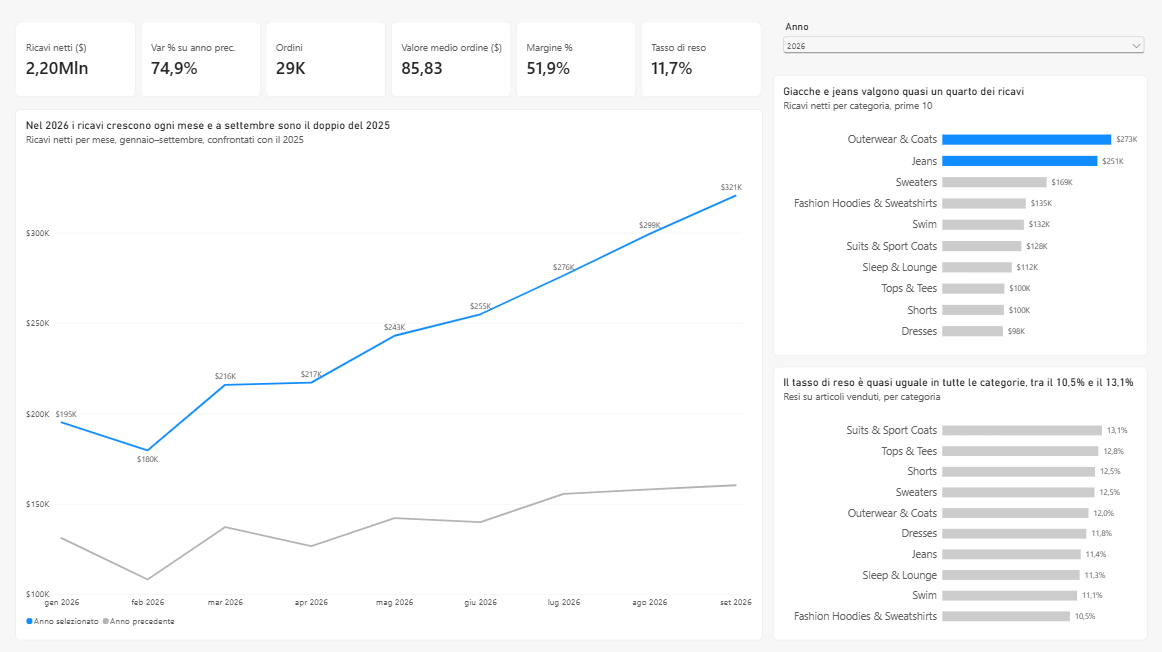
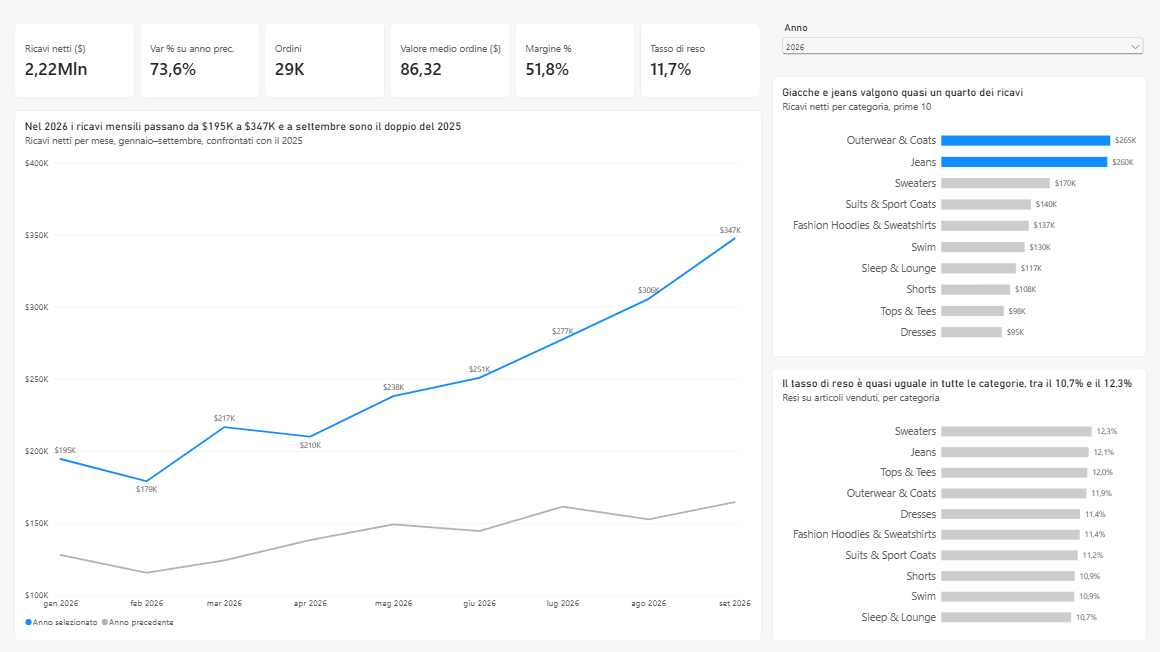
fixed data

diff --git a/docs/guida_al_modello.md b/docs/guida_al_modello.md
@@ -5,9 +5,12 @@ Per chi entra nel progetto: come sono organizzati i dati, come si ricostruisce t
 ## 1. Il percorso dei dati
 
 ```
-bigquery-public-data.thelook_ecommerce     dati grezzi, pubblici, sintetici
+bigquery-public-data.thelook_ecommerce     dati pubblici, sintetici, rigenerati nel tempo
         │
-        ▼  sql/01_staging.sql
+        ▼  sql/00_fotografia_dati.sql (una volta sola)
+raw.*                                       copia fissa: i numeri restano riproducibili
+        │
+        ▼  sql/01_staging.sql  oppure  dbt (cartella dbt/)
 staging.stg_*                               pulizia, nomi coerenti, data di taglio
         │
         ▼  sql/02_marts.sql
@@ -21,12 +24,12 @@ Ogni livello legge solo da quello precedente. Power BI e i notebook leggono solo
 
 ## 2. Ricostruire tutto da zero
 
-1. In un progetto Google Cloud con BigQuery attivo (basta la sandbox gratuita), esegui `sql/01_staging.sql` e poi `sql/02_marts.sql`. Ogni file va eseguito intero, con Ctrl+Invio.
+1. In un progetto Google Cloud con BigQuery attivo (basta la sandbox gratuita), esegui una volta `sql/00_fotografia_dati.sql`, poi `sql/01_staging.sql` e `sql/02_marts.sql`. Ogni file va eseguito intero, con Ctrl+Invio. In alternativa agli ultimi due, esegui il progetto dbt con `notebooks/02_dbt_metricflow.ipynb`, che scrive in `dbt_staging` e `dbt_marts`.
 2. Controlla i risultati in fondo a `02_marts.sql`: le righe per tabella e i ricavi netti, che devono coincidere calcolati in due modi.
 3. Apri `powerbi/analisi.pbix` e aggiorna i dati. Se colleghi un modello nuovo, segui `powerbi/modello_e_misure.md`.
 4. Esegui i notebook in Google Colab con lo stesso account Google.
 
-In sandbox le viste scadono dopo 60 giorni: se spariscono, basta rieseguire i due script.
+In sandbox tabelle e viste scadono dopo 60 giorni. Le viste si ricreano rieseguendo gli script; la fotografia invece, se rifatta, contiene dati diversi, perché il dataset pubblico nel frattempo è stato rigenerato. Confronta la sua "carta d'identità" (righe e totale di controllo in fondo allo script) con quella riportata nel README.
 
 ## 3. Le tabelle
 

diff --git a/README.md b/README.md
@@ -38,6 +38,7 @@ La sintesi per il management, con tre raccomandazioni, è in [`docs/memo.md`](do
 - **Fonte principale:** `bigquery-public-data.thelook_ecommerce`, dataset pubblico di Google su BigQuery: utenti, ordini, righe d'ordine, prodotti, magazzino ed eventi web, da febbraio 2019.
 - **A/B test:** [E-Commerce Clickstream Simulation Dataset](https://www.kaggle.com/datasets/amith1707/e-commerce-clickstream-simulation-dataset) su Kaggle, licenza CC0.
 - **Dati sintetici:** i risultati mostrano il metodo, non il comportamento di un'azienda reale.
+- **Fotografia dei dati.** Il dataset pubblico viene rigenerato: tra il 7 e l'8 novembre 2026 i ricavi netti di gennaio–settembre 2026 sono passati da $2,20 a $2,22 milioni, con la data di taglio invariata. La differenza è emersa confrontando Power BI e MetricFlow. Per questo il progetto lavora su una copia fissa (`sql/00_fotografia_dati.sql`, dataset `raw`), e i numeri di questo README si riferiscono a quella copia.
 - **Data di taglio: 30 settembre 2026.** Il controllo settimanale dei ricavi ha trovato dati recenti gonfiati dal generatore: la settimana dal 26 ottobre +29% rispetto alla precedente, la prima di novembre più del doppio di una settimana normale in soli 6 giorni. Ottobre quindi non è un mese affidabile.
 - **Cosa il generatore decide da solo**, verificato in fase di esplorazione:
   - il canale di ogni sessione è indipendente da quello di iscrizione;
@@ -72,7 +73,7 @@ Le stesse definizioni sono in `sql/02_marts.sql` e nelle misure DAX (`powerbi/mi
 ## Struttura
 
 ```
-sql/          esplorazione, staging e mart come script BigQuery
+sql/          esplorazione, fotografia dei dati, staging e mart come script BigQuery
 dbt/          gli stessi staging e mart come progetto dbt: test, controllo anomalie, semantic layer MetricFlow
 powerbi/      report Power BI, misure DAX, guida al modello, screenshot
 notebooks/    01 test statistici su coorti e canali, 02 build dbt e metriche MetricFlow (Google Colab)
